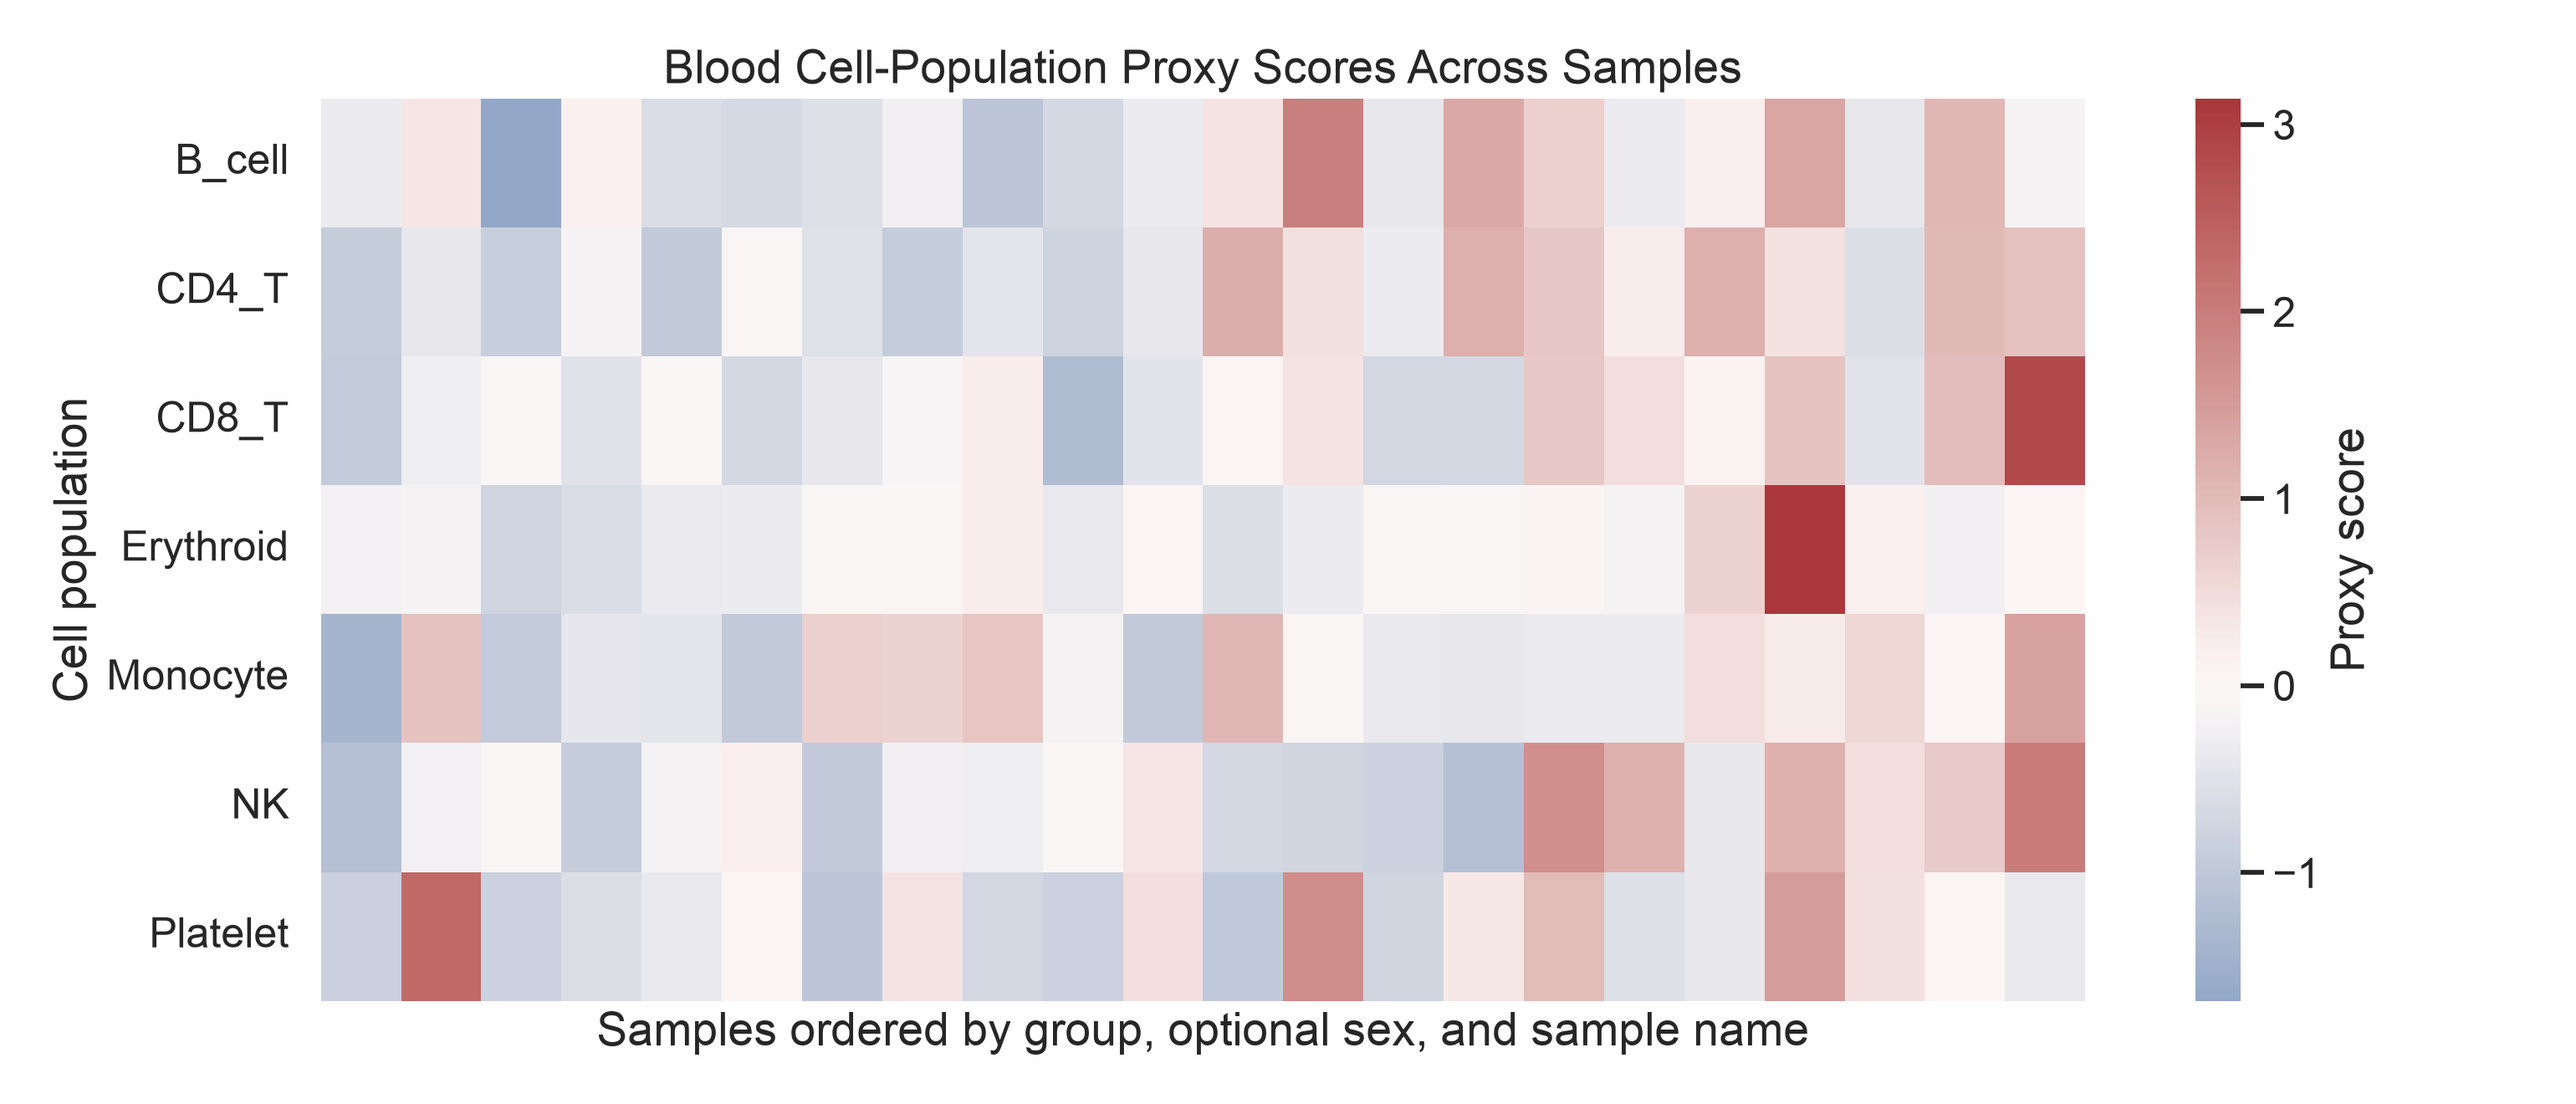
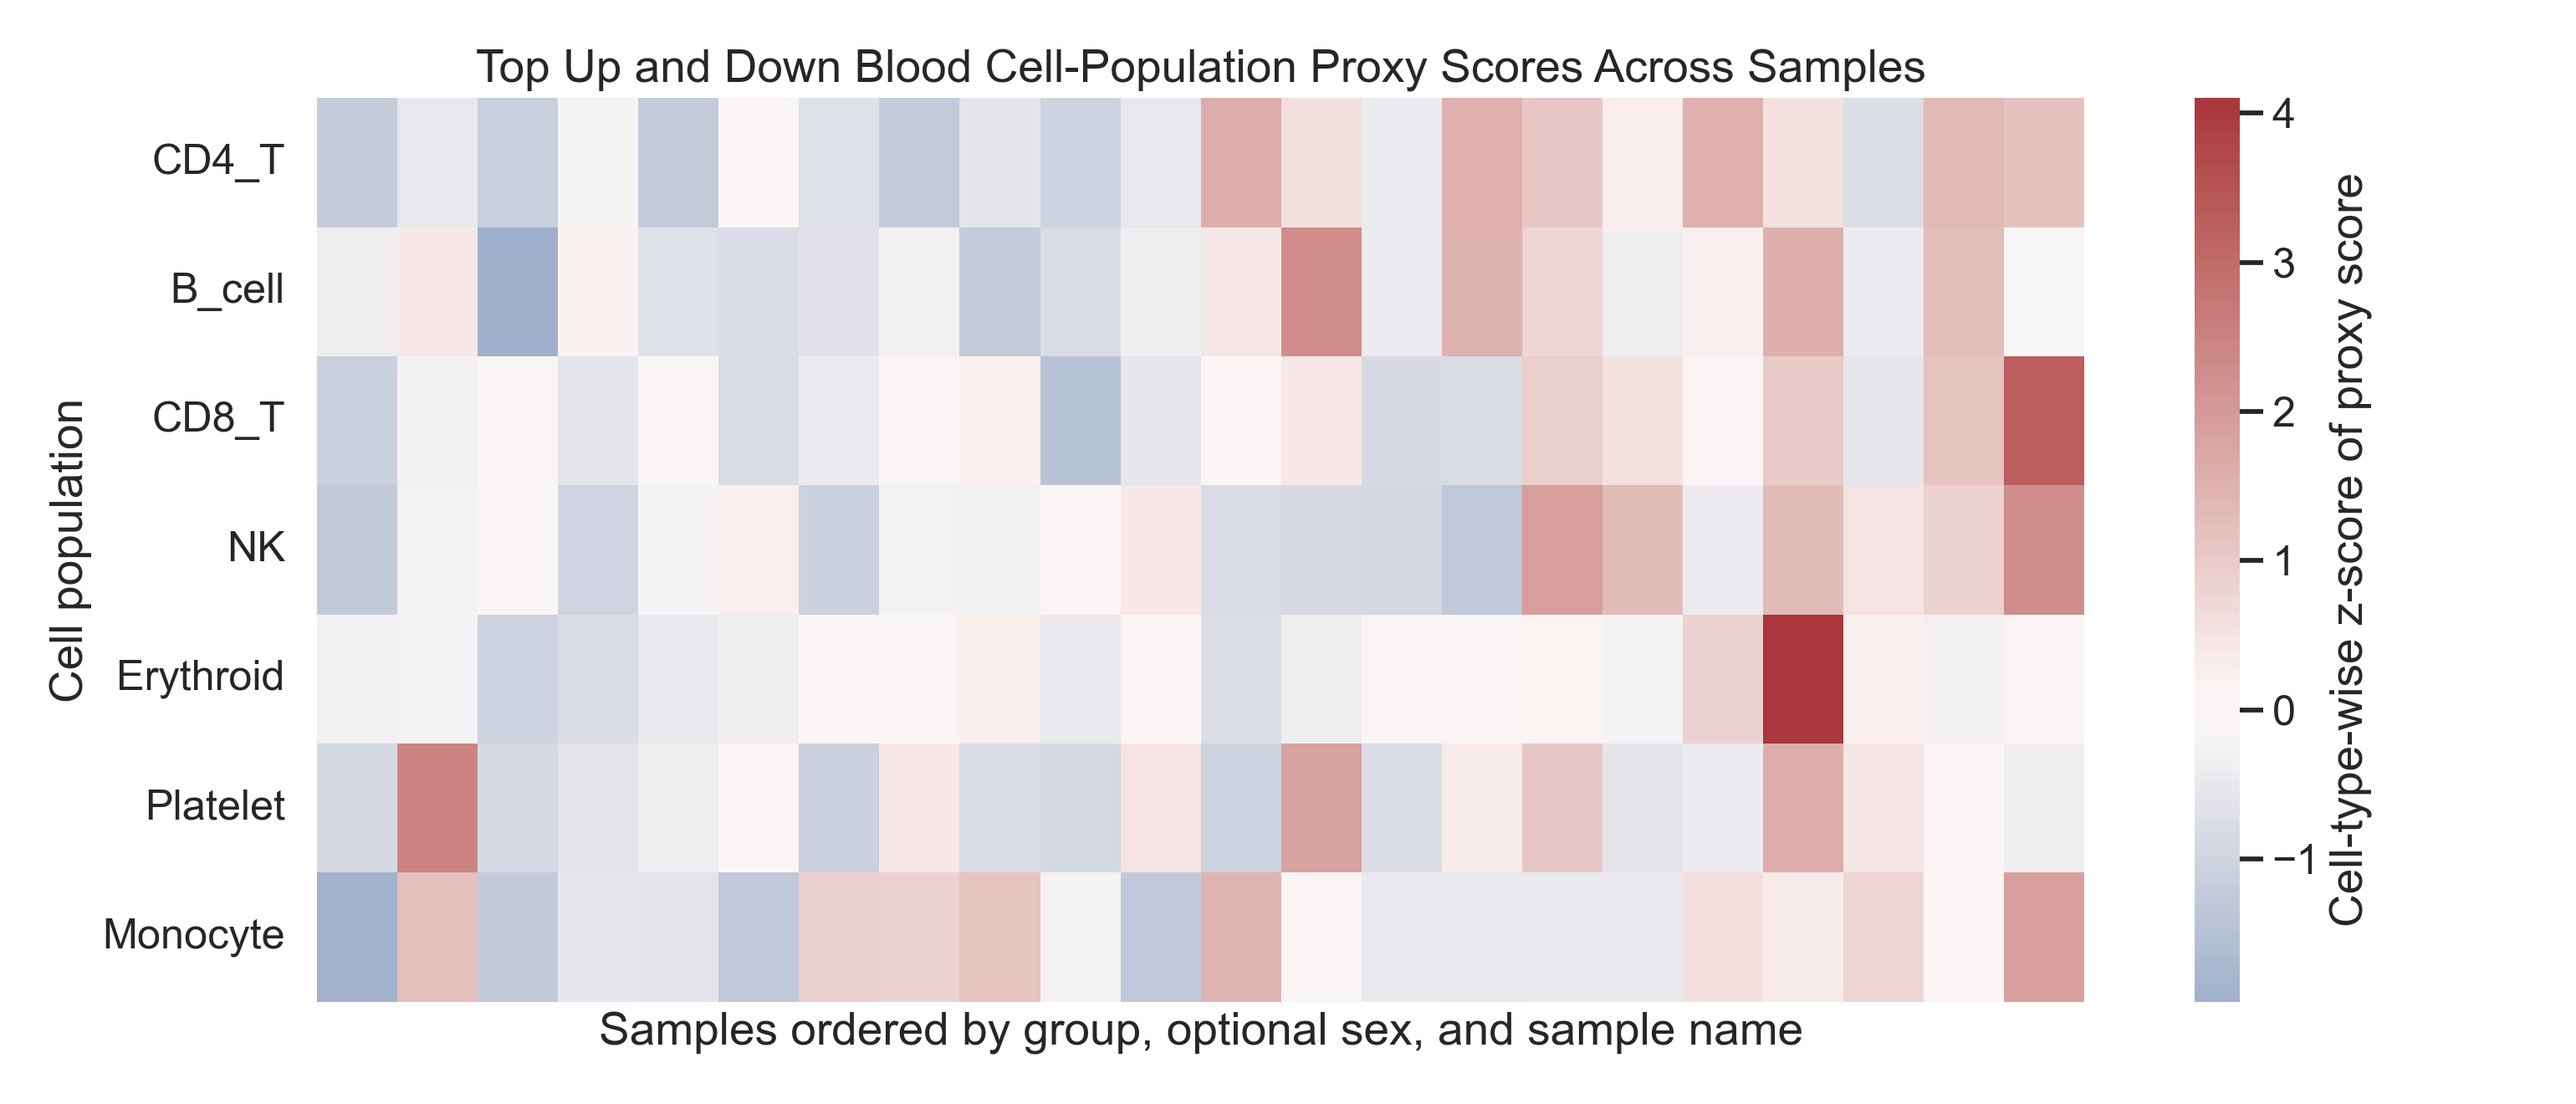
GSE52790 analysis results

diff --git a/PBMC/GSE52790/main.py b/PBMC/GSE52790/main.py
@@ -95,6 +95,17 @@ run_cell_proxy_analysis(
     case_label="Case",
 )
 
+run_cell_proxy_analysis(
+    input_file=results_dir / "deduplicated_expression_dataset.csv",
+    metadata_file=TEST_DIR / "processed_data" / "sample_metadata.csv",
+    output_dir=TEST_DIR / "cell_population_proxies_neutrophil",
+    markers_csv=PROJECT_ROOT / "markers" / "blood_cell_markers.csv",
+    control_prefix="NC",
+    case_prefix="ND",
+    control_label="Control",
+    case_label="Case",
+)
+
 print(f"Expression output: {expression_csv}")
 print(f"Metadata output:   {metadata_csv}")
 print(f"Analysis outputs:  {TEST_DIR / 'cell_population_proxies'}")
